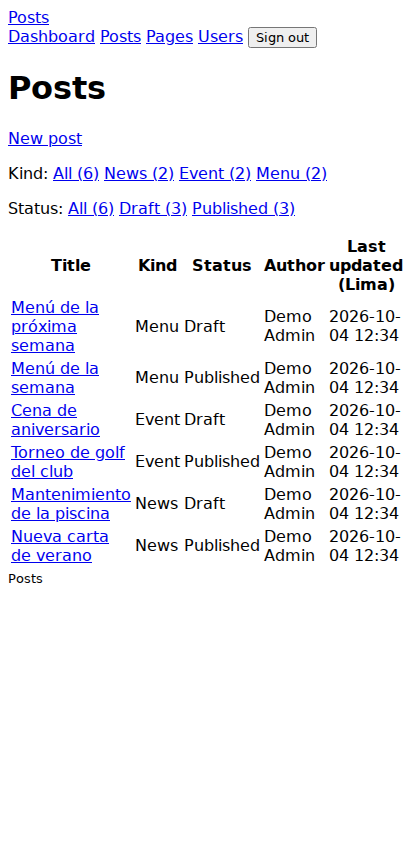
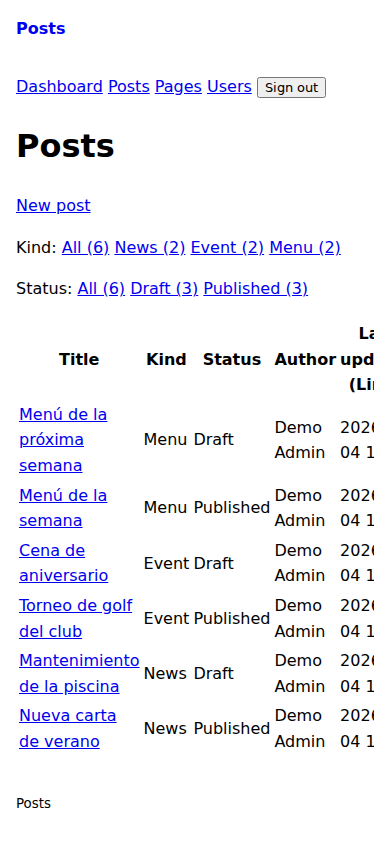
Fix admin pages having no CSS past /admin (stylesheet link was relative), stop tables and the editor overflowing at 390px, add save messages, rename transcripts to my name

diff --git a/templates/admin/dashboard.html b/templates/admin/dashboard.html
@@ -6,7 +6,7 @@
   <p>Last Export: {{ (last_export | lima) if last_export else "never" }}</p>
 
   <h2>Posts</h2>
-  <table>
+  <div class="scroll"><table>
     <thead><tr><th>Kind</th>{% for s in statuses %}<th>{{ s | capitalize }}</th>{% endfor %}</tr></thead>
     <tbody>
     {% for k in kinds %}
@@ -18,15 +18,15 @@
       </tr>
     {% endfor %}
     </tbody>
-  </table>
+  </table></div>
 
   {% if page_counts %}
   <h2>Pages</h2>
-  <table>
+  <div class="scroll"><table>
     <thead><tr>{% for s in statuses %}<th>{{ s | capitalize }}</th>{% endfor %}</tr></thead>
     <tbody><tr>
       {% for s in statuses %}<td data-count="page-{{ s }}">{{ page_counts[s] }}</td>{% endfor %}
     </tr></tbody>
-  </table>
+  </table></div>
   {% endif %}
 {% endblock %}

diff --git a/templates/admin/page_list.html b/templates/admin/page_list.html
@@ -3,7 +3,7 @@
   <h1>Pages</h1>
   <p><a href="{{ path_for('new_page') }}">New page</a></p>
   {% if pages %}
-  <table>
+  <div class="scroll"><table>
     <thead><tr><th>Title</th><th>Status</th><th>Nav order</th><th>Author</th><th>Last updated (Lima)</th></tr></thead>
     <tbody>
     {% for p in pages %}
@@ -16,7 +16,7 @@
       </tr>
     {% endfor %}
     </tbody>
-  </table>
+  </table></div>
   {% else %}
     <p>No pages yet.</p>
   {% endif %}

diff --git a/templates/admin/user_list.html b/templates/admin/user_list.html
@@ -3,7 +3,7 @@
   <h1>Users</h1>
   {% if error %}<p role="alert">{{ error }}</p>{% endif %}
   <p><a href="{{ path_for('new_user') }}">New user</a></p>
-  <table>
+  <div class="scroll"><table>
     <thead><tr><th>Name</th><th>Email</th><th>Role</th><th>Status</th><th>Actions</th></tr></thead>
     <tbody>
     {% for u in users %}
@@ -30,5 +30,5 @@
       </tr>
     {% endfor %}
     </tbody>
-  </table>
+  </table></div>
 {% endblock %}

diff --git a/templates/admin/post_list.html b/templates/admin/post_list.html
@@ -15,7 +15,7 @@
     {% endfor %}
   </p>
   {% if posts %}
-  <table>
+  <div class="scroll"><table>
     <thead><tr><th>Title</th><th>Kind</th><th>Status</th><th>Author</th><th>Last updated (Lima)</th></tr></thead>
     <tbody>
     {% for p in posts %}
@@ -28,7 +28,7 @@
       </tr>
     {% endfor %}
     </tbody>
-  </table>
+  </table></div>
   {% else %}
     <p>No posts match.</p>
   {% endif %}

diff --git a/templates/admin/layout.html b/templates/admin/layout.html
@@ -12,5 +12,8 @@
       <button type="submit">Sign out</button>
     </form>
   </nav>
+  {% for message in pop_flash(request) %}
+    <p role="status" class="flash">{{ message }}</p>
+  {% endfor %}
   {% block console %}{% endblock %}
 {% endblock %}

diff --git a/tests/test_flash_messages.py b/tests/test_flash_messages.py
@@ -1,0 +1,68 @@
+"""After a successful save the next console page says so, once."""
+import re
+
+from tests.conftest import csrf_from
+from tests.test_t02_posts import save_post
+from tests.test_t06_pages import new_page, save_page
+
+USERS = "/admin/users"
+
+
+def messages(response):
+    return re.findall(r'<p role="status" class="flash">([^<]+)</p>', response.text)
+
+
+def save_form(client, location, **fields):
+    token = csrf_from(client.get(location))
+    return client.post(location, data={"csrf_token": token, **fields}, follow_redirects=False)
+
+
+def test_creating_a_post_says_so_once(client_as):
+    editor = client_as("editor")
+    location = save_post(editor, title="Aviso").headers["location"]
+    assert messages(editor.get(location)) == ["Post created as a Draft."]
+    assert messages(editor.get(location)) == []  # gone on the next page
+
+
+def test_saving_a_post_says_so(client_as):
+    editor = client_as("editor")
+    location = save_post(editor, title="Aviso").headers["location"]
+    editor.get(location)  # reads the "created" message
+    saved = save_form(editor, location, title="Aviso", slug="aviso", body_md="nuevo")
+    assert saved.status_code == 303
+    assert messages(editor.get(saved.headers["location"])) == ["Post saved."]
+
+
+def test_creating_and_saving_a_page_say_so(client_as):
+    admin = client_as("admin")
+    location = new_page(admin, title="Reglas")
+    assert messages(admin.get(location)) == ["Page created as a Draft."]
+    saved = save_form(admin, location, title="Reglas", slug="reglas", body_md="x", nav_order="2")
+    assert messages(admin.get(saved.headers["location"])) == ["Page saved."]
+
+
+def test_creating_a_user_and_changing_a_role_say_so(client_as):
+    admin = client_as("admin")
+    token = csrf_from(admin.get(f"{USERS}/new"))
+    created = admin.post(USERS, data={"csrf_token": token, "name": "Nueva", "role": "editor",
+                                      "email": "nueva@example.test", "password": "long-enough-pw"},
+                         follow_redirects=False)
+    assert messages(admin.get(created.headers["location"])) == ["User created."]
+    new_id = max(map(int, re.findall(r"/admin/users/(\d+)/role", admin.get(USERS).text)))
+    changed = admin.post(f"{USERS}/{new_id}/role", follow_redirects=False,
+                         data={"csrf_token": csrf_from(admin.get(USERS)), "role": "admin"})
+    assert messages(admin.get(changed.headers["location"])) == ["Role updated."]
+
+
+def test_a_failed_save_shows_an_error_and_no_success_message(client_as):
+    admin = client_as("admin")
+    response = save_page(admin, title="")
+    assert response.status_code == 422 and 'role="alert"' in response.text
+    assert messages(admin.get("/admin/pages")) == []
+
+
+def test_every_console_page_loads_the_stylesheet_from_the_site_root(client_as):
+    admin = client_as("admin")
+    for path in ("/admin", "/admin/posts", "/admin/posts/new", "/admin/users", "/admin/pages"):
+        assert 'href="/style.css"' in admin.get(path).text, path
+    assert admin.get("/style.css").status_code == 200

diff --git a/app/routes/posts.py b/app/routes/posts.py
@@ -140,6 +140,7 @@ def create_post(request: Request, kind: str = Form(""), title: str = Form(""),
         return form_page(request, user, {"kind": kind, "title": title,
                                          "slug": slug, "body_md": body_md, **event},
                          error=str(exc), status_code=422)
+    auth.flash(request, "Post created as a Draft.")
     return RedirectResponse(f"/admin/posts/{post_id}", status_code=303)
 
 
@@ -175,6 +176,7 @@ def save_post(request: Request, post_id: int, confirm: str = Form(""),
         content.update_post(conn, post, **values)
     except content.PostError as exc:
         return editor_page(request, user, post, values, str(exc))
+    auth.flash(request, "Post saved.")
     return RedirectResponse(f"/admin/posts/{post_id}", status_code=303)
 
 
@@ -210,6 +212,7 @@ def publish_post(request: Request, post_id: int, confirm: str = Form(""),
     except content.PostError as exc:
         return editor_page(request, user, post, values, str(exc))
     content.publish_post(conn, post)
+    auth.flash(request, "Post published. It reaches the public site at the next Export.")
     return RedirectResponse(f"/admin/posts/{post_id}", status_code=303)
 
 
@@ -227,6 +230,7 @@ def unpublish_post(request: Request, post_id: int, confirm: str = Form(""),
                      "from the public site at the next Export. Unsaved edits in the "
                      "editor are not saved."])
     content.unpublish_post(conn, post)
+    auth.flash(request, "Post unpublished. It is a Draft again.")
     return RedirectResponse(f"/admin/posts/{post_id}", status_code=303)
 
 
@@ -245,6 +249,7 @@ def delete_post(request: Request, post_id: int, confirm: str = Form(""),
             + (["It leaves the public site at the next Export."]
                if post["first_published_at"] else []))
     content.delete_post(conn, post)
+    auth.flash(request, "Post deleted.")
     return RedirectResponse(request.app.url_path_for("post_list"), status_code=303)
 
 

diff --git a/app/routes/pages.py b/app/routes/pages.py
@@ -104,6 +104,7 @@ def create_page(request: Request, title: str = Form(""), slug: str = Form(""),
         page_id = store.create_page(conn, author_id=user["id"], **values)
     except store.PostError as exc:
         return form_page(request, user, values, error=str(exc), status_code=422)
+    auth.flash(request, "Page created as a Draft.")
     return RedirectResponse(f"/admin/pages/{page_id}", status_code=303)
 
 
@@ -133,6 +134,7 @@ def save_page(request: Request, page_id: int, confirm: str = Form(""),
         store.update_page(conn, page, **values)
     except store.PostError as exc:
         return editor_page(request, user, page, values, str(exc))
+    auth.flash(request, "Page saved.")
     return RedirectResponse(f"/admin/pages/{page_id}", status_code=303)
 
 
@@ -167,6 +169,7 @@ def publish_page(request: Request, page_id: int, confirm: str = Form(""),
     except store.PostError as exc:
         return editor_page(request, user, page, values, str(exc))
     store.publish_page(conn, page)
+    auth.flash(request, "Page published. It reaches the public site at the next Export.")
     return RedirectResponse(f"/admin/pages/{page_id}", status_code=303)
 
 
@@ -184,6 +187,7 @@ def unpublish_page(request: Request, page_id: int, confirm: str = Form(""),
                      "from the public site and its Navigation at the next Export. "
                      "Unsaved edits in the editor are not saved."])
     store.unpublish_page(conn, page)
+    auth.flash(request, "Page unpublished. It is a Draft again.")
     return RedirectResponse(f"/admin/pages/{page_id}", status_code=303)
 
 
@@ -202,6 +206,7 @@ def delete_page(request: Request, page_id: int, confirm: str = Form(""),
             + (["It leaves the public site at the next Export."]
                if page["status"] == "published" else []))
     store.delete_page(conn, page)
+    auth.flash(request, "Page deleted.")
     return RedirectResponse(request.app.url_path_for("page_list"), status_code=303)
 
 

diff --git a/app/routes/users.py b/app/routes/users.py
@@ -64,6 +64,7 @@ def create_user(request: Request, name: str = Form(""), email: str = Form(""),
             request, "admin/user_form.html",
             {"title": "New user", "user": user, "error": str(exc),
              "form": {"name": name, "email": email, "role": role}}, status_code=422)
+    auth.flash(request, "User created.")
     return RedirectResponse(request.app.url_path_for("users"), status_code=303)
 
 
@@ -78,6 +79,7 @@ def change_role(request: Request, user_id: int, role: str = Form(""),
         accounts.change_role(conn, user_id, role)
     except accounts.UserError as exc:
         return user_list(request, user, conn, error=str(exc), status_code=422)
+    auth.flash(request, "Role updated.")
     return RedirectResponse(request.app.url_path_for("users"), status_code=303)
 
 
@@ -91,6 +93,7 @@ def deactivate(request: Request, user_id: int,
     except accounts.UserError as exc:
         return user_list(request, user, conn, error=str(exc), status_code=422)
     accounts.set_user_active(conn, user_id, False)
+    auth.flash(request, "User deactivated.")
     return RedirectResponse(request.app.url_path_for("users"), status_code=303)
 
 
@@ -100,4 +103,5 @@ def reactivate(request: Request, user_id: int,
                conn: sqlite3.Connection = Depends(auth.get_db)):
     load(conn, user_id)
     accounts.set_user_active(conn, user_id, True)
+    auth.flash(request, "User reactivated.")
     return RedirectResponse(request.app.url_path_for("users"), status_code=303)

diff --git a/app/web.py b/app/web.py
@@ -5,12 +5,16 @@ import jinja2
 from fastapi.templating import Jinja2Templates
 
 from app import settings
-from app.auth import csrf_token
+from app.auth import csrf_token, pop_flash
 from app.timeutil import lima
 
 templates = Jinja2Templates(directory=str(settings.TEMPLATES))
 templates.env.globals["csrf_token"] = csrf_token
+templates.env.globals["pop_flash"] = pop_flash
 templates.env.filters["lima"] = lima
+# The console is at many depths (/admin, /admin/posts/3, ...), so a relative "style.css"
+# 404s on all but the first. Console only: Export uses its own environment and stays relative.
+templates.env.globals["css_path"] = "/style.css"
 
 
 @jinja2.pass_context

diff --git a/app/auth.py b/app/auth.py
@@ -53,6 +53,16 @@ async def csrf_protect(request: Request) -> None:
         raise HTTPException(403, "Invalid or missing CSRF token.")
 
 
+def flash(request: Request, message: str) -> None:
+    """Queue a one-time message for the next console page the User sees."""
+    request.session["flash"] = [*request.session.get("flash", []), message]
+
+
+def pop_flash(request: Request) -> list[str]:
+    """The queued messages, removed so they show once."""
+    return request.session.pop("flash", [])
+
+
 def sign_in(request: Request, user: sqlite3.Row) -> None:
     # Fresh session and token on login, so nothing set before it carries over.
     request.session.clear()

diff --git a/tests/test_settings.py b/tests/test_settings.py
@@ -29,3 +29,11 @@ def test_only_matching_quotes_are_stripped(tmp_path, monkeypatch):
 
 def test_missing_dotenv_is_fine(tmp_path):
     settings.load_dotenv(tmp_path / "absent.env")
+
+
+def test_env_example_sets_the_clubs_name_as_the_site_title():
+    """T08: CMS_SITE_TITLE in .env.example is the club's name."""
+    example = (settings.ROOT / ".env.example").read_text(encoding="utf-8")
+    title = [line.partition("=")[2] for line in example.splitlines()
+             if line.startswith("CMS_SITE_TITLE=")]
+    assert title == ["Golf & Country Club of Trujillo"]
